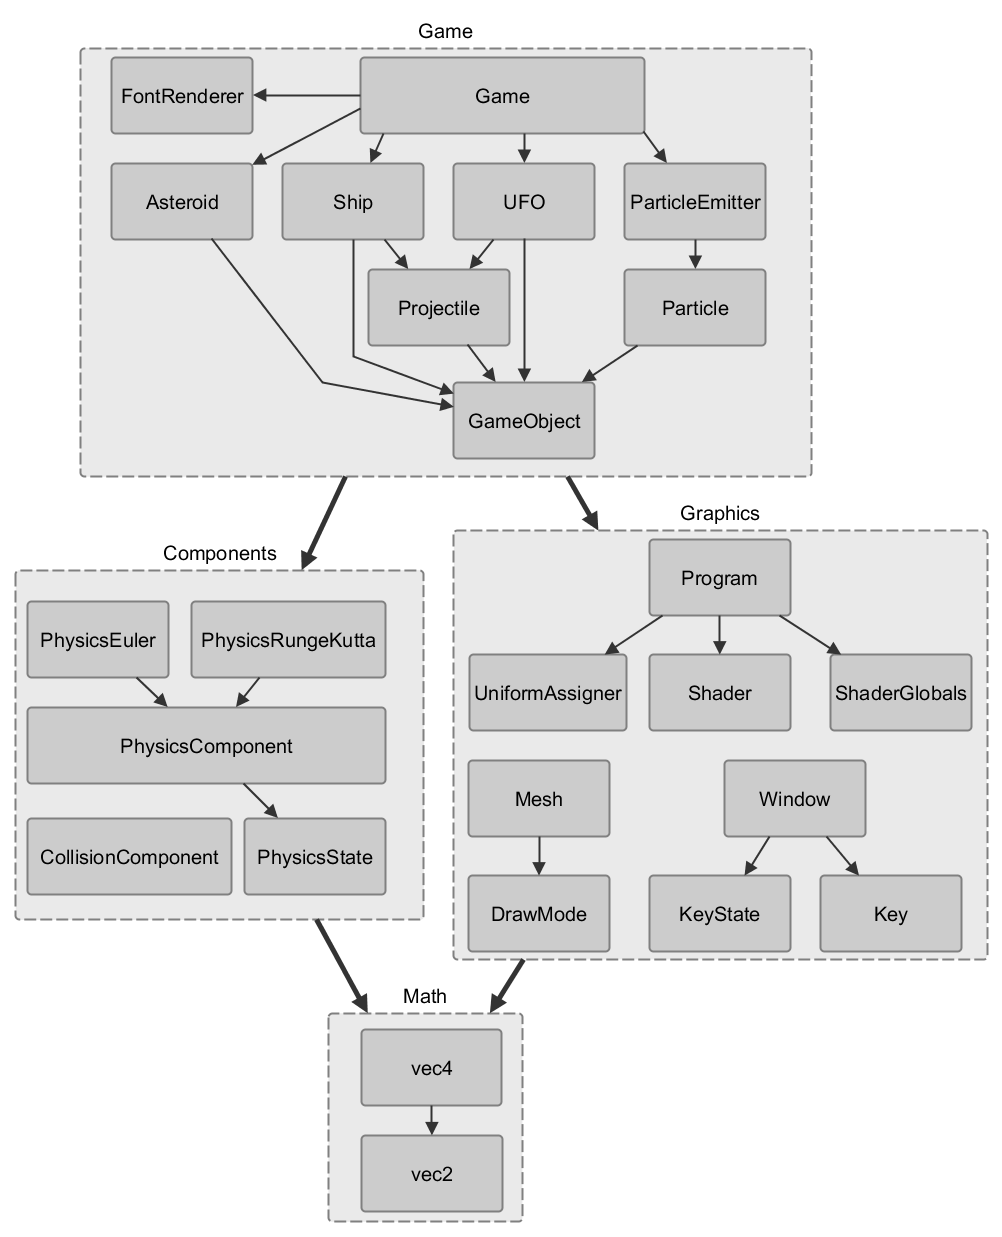
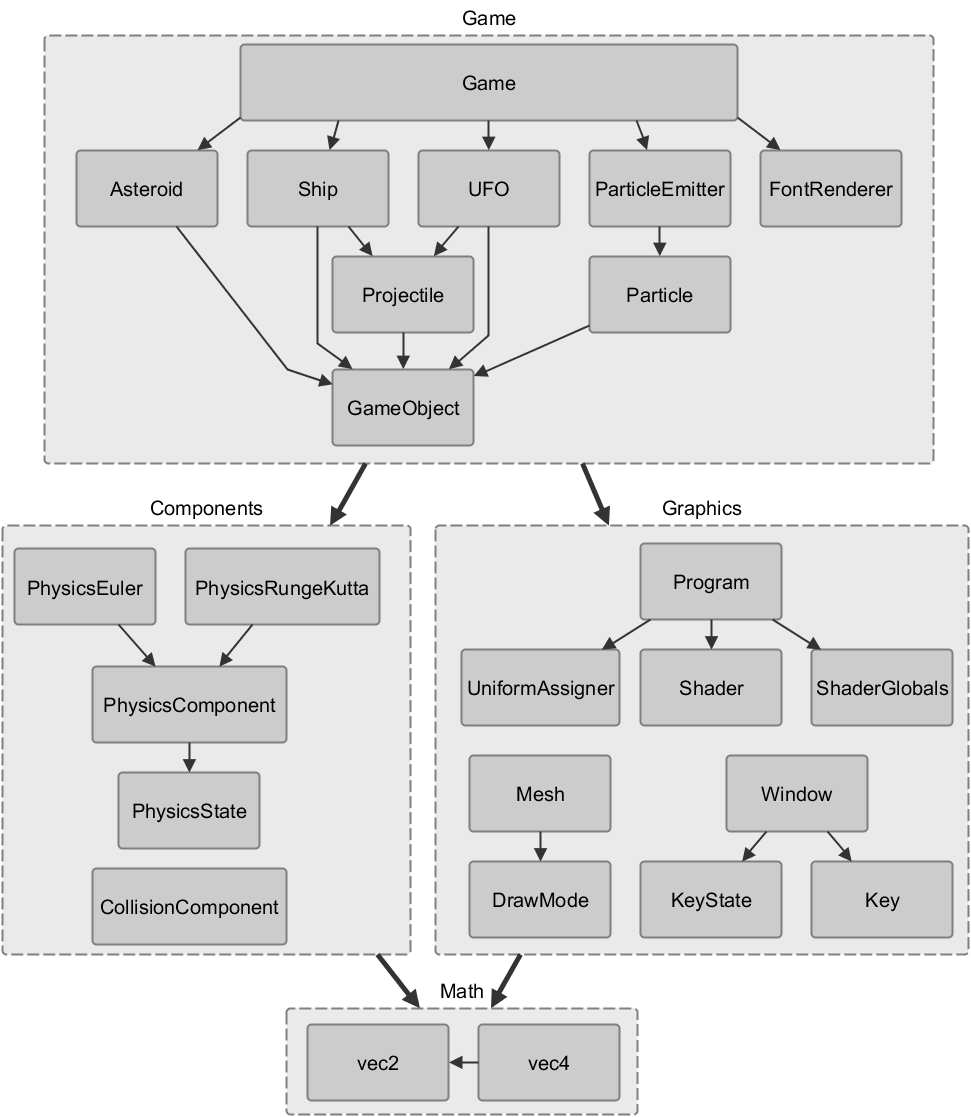
[Documentation] Dependency graph fine tuning

diff --git a/doc/de/src/doc_de.tex b/doc/de/src/doc_de.tex
@@ -96,7 +96,7 @@ Das Spiel wurde auch unter FreeBSD ohne Anpassungen des Quellcodes erfolgreich k
 \paragraph{Windows}
 Unter Windows kann die erstellte Visual Studio Solution mit Visual Studio 2013 geöffnet und das Projekt gebaut sowie gestartet werden. Die Einrichtung des korrekten Arbeitsverzeichnis hat CMake mithilfe einer Solution Template in \texttt{/cmake/VisualStudio/} übernommen und muss somit nicht von Hand erledigt werden.
 
-\section{Abhängigkeits Graph}
+\section{Klassenabhängigkeiten}
 \begin{figure}[h!]
   \centering
   \includegraphics[width=\textwidth]{../graphs/dependency1.png}
